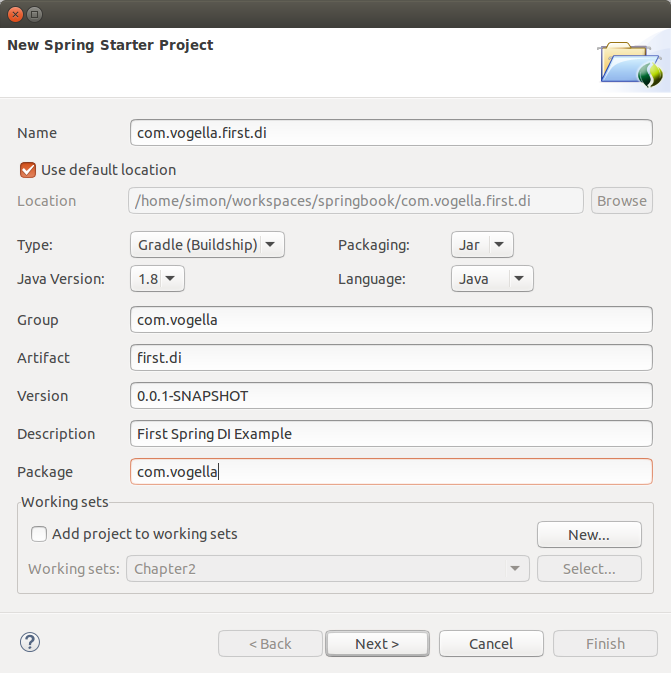
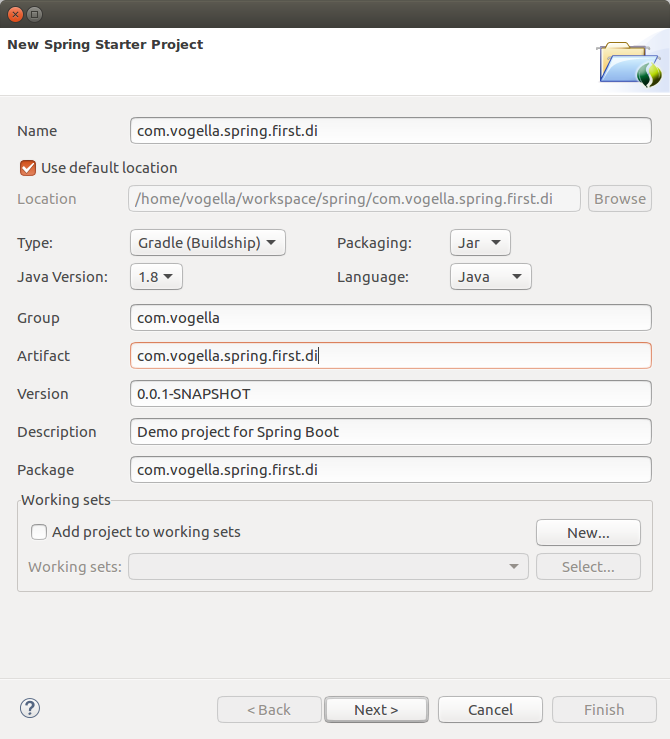
Spring updates the first exercise

diff --git a/Spring/res/Application.java b/Spring/res/Application.java
@@ -1,18 +1,16 @@
-package com.vogella;
+package com.vogella.spring.first.di;
 
 import org.springframework.context.annotation.AnnotationConfigApplicationContext;
 
-import com.vogella.config.Config;
+import com.vogella.spring.first.di.config.Config;
+
 
 public class Application {
 
-	public static void main(String[] args) {
-		AnnotationConfigApplicationContext context = new AnnotationConfigApplicationContext(Config.class);
-
-		ITodo todo = context.getBean(ITodo.class);
-
-		System.out.println(todo);
-
-		context.close();
-	}
+        public static void main(String[] args) {
+                AnnotationConfigApplicationContext context = new AnnotationConfigApplicationContext(Config.class);
+                ITodo todo = context.getBean(ITodo.class);
+                System.out.println(todo);
+                context.close();
+        }
 }

diff --git a/Spring/res/Todo.java b/Spring/res/Todo.java
@@ -1,4 +1,4 @@
-package com.vogella;
+package com.vogella.spring.first.di;
 
 import java.util.Date;
 
@@ -21,12 +21,9 @@ public class Todo implements ITodo {
 		this(i, "");
 	}
 
-	@Autowired
 	public Todo(long i, String summary) {
 		this.id = i;
 		this.summary = summary;
-		this.done = b;
-		this.dueDate = date;
 	}
 
 	@Override
@@ -93,6 +90,9 @@ public class Todo implements ITodo {
 
 	@Override
 	public Todo copy() {
-		return new Todo(id, summary, done, dueDate);
+		Todo todo = new Todo(id, summary);
+		todo.setDone(this.isDone());
+		todo.setDueDate(this.getDueDate());
+		return todo;
 	}
 }

diff --git a/Spring/res/ConfigScan.java b/Spring/res/ConfigScan.java
@@ -1,9 +1,9 @@
-package com.vogella.config;
+package com.vogella.spring.first.di.config;
 
 import org.springframework.context.annotation.ComponentScan;
 import org.springframework.context.annotation.Configuration;
 
 @Configuration
-@ComponentScan(basePackages = { "com.vogella" })
+@ComponentScan(basePackages = { "com.vogella.spring.first.di" })
 public class Config {
 }

diff --git a/Spring/res/ITodo.java b/Spring/res/ITodo.java
@@ -1,4 +1,4 @@
-package com.vogella;
+package com.vogella.spring.first.di;
 
 import java.util.Date;
 
